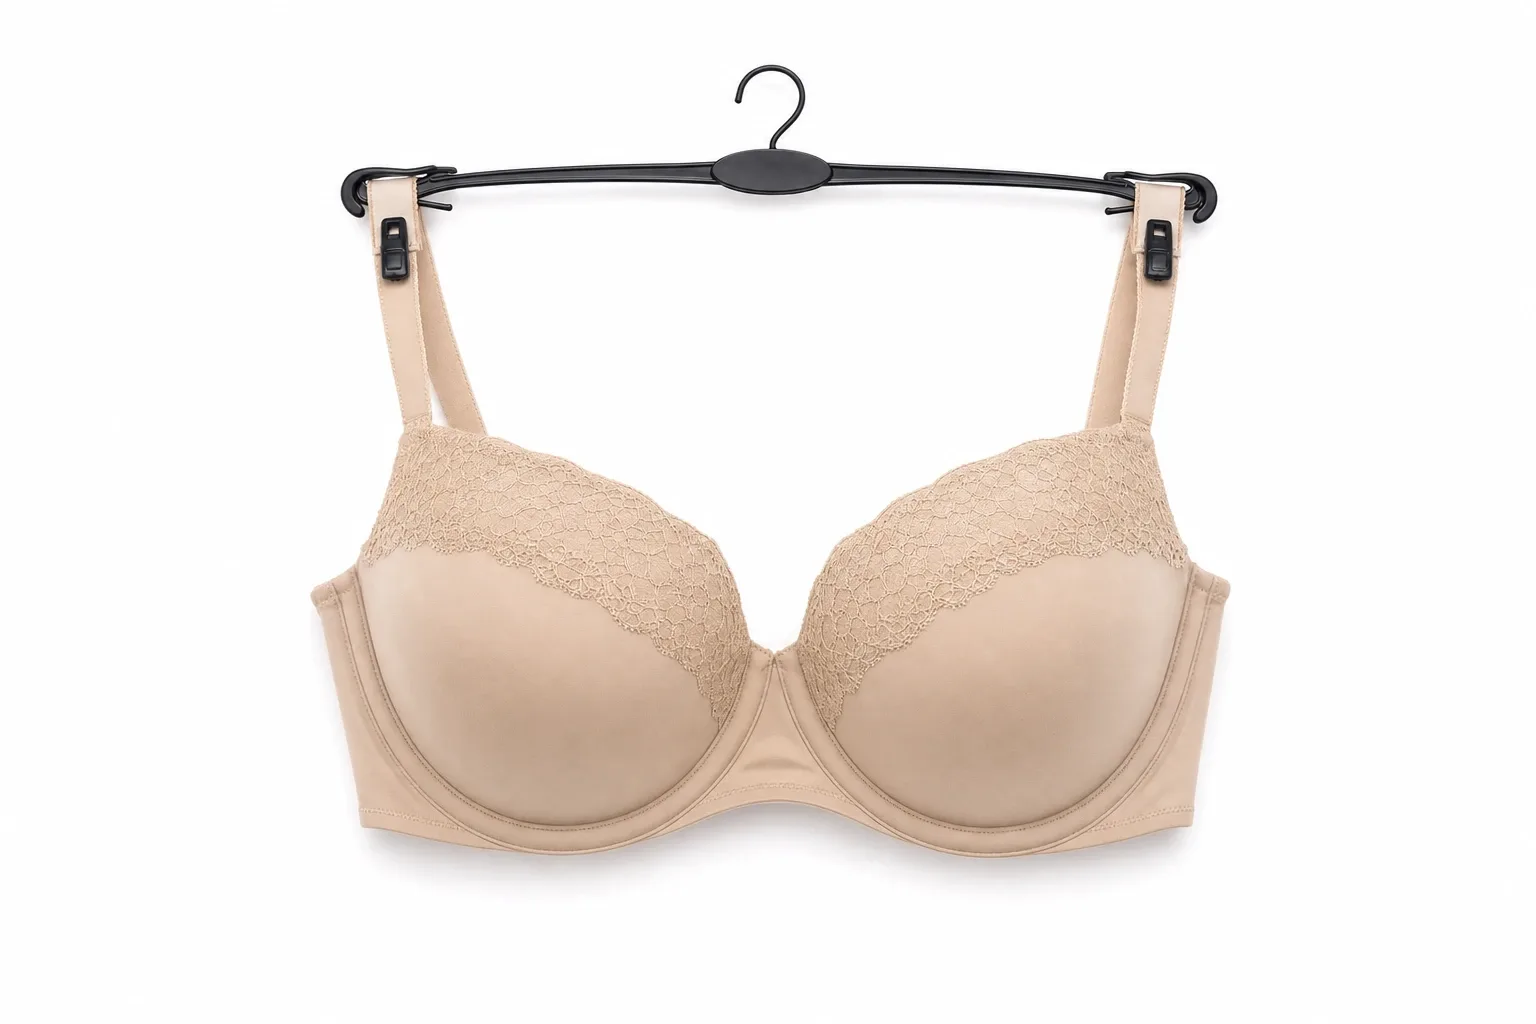
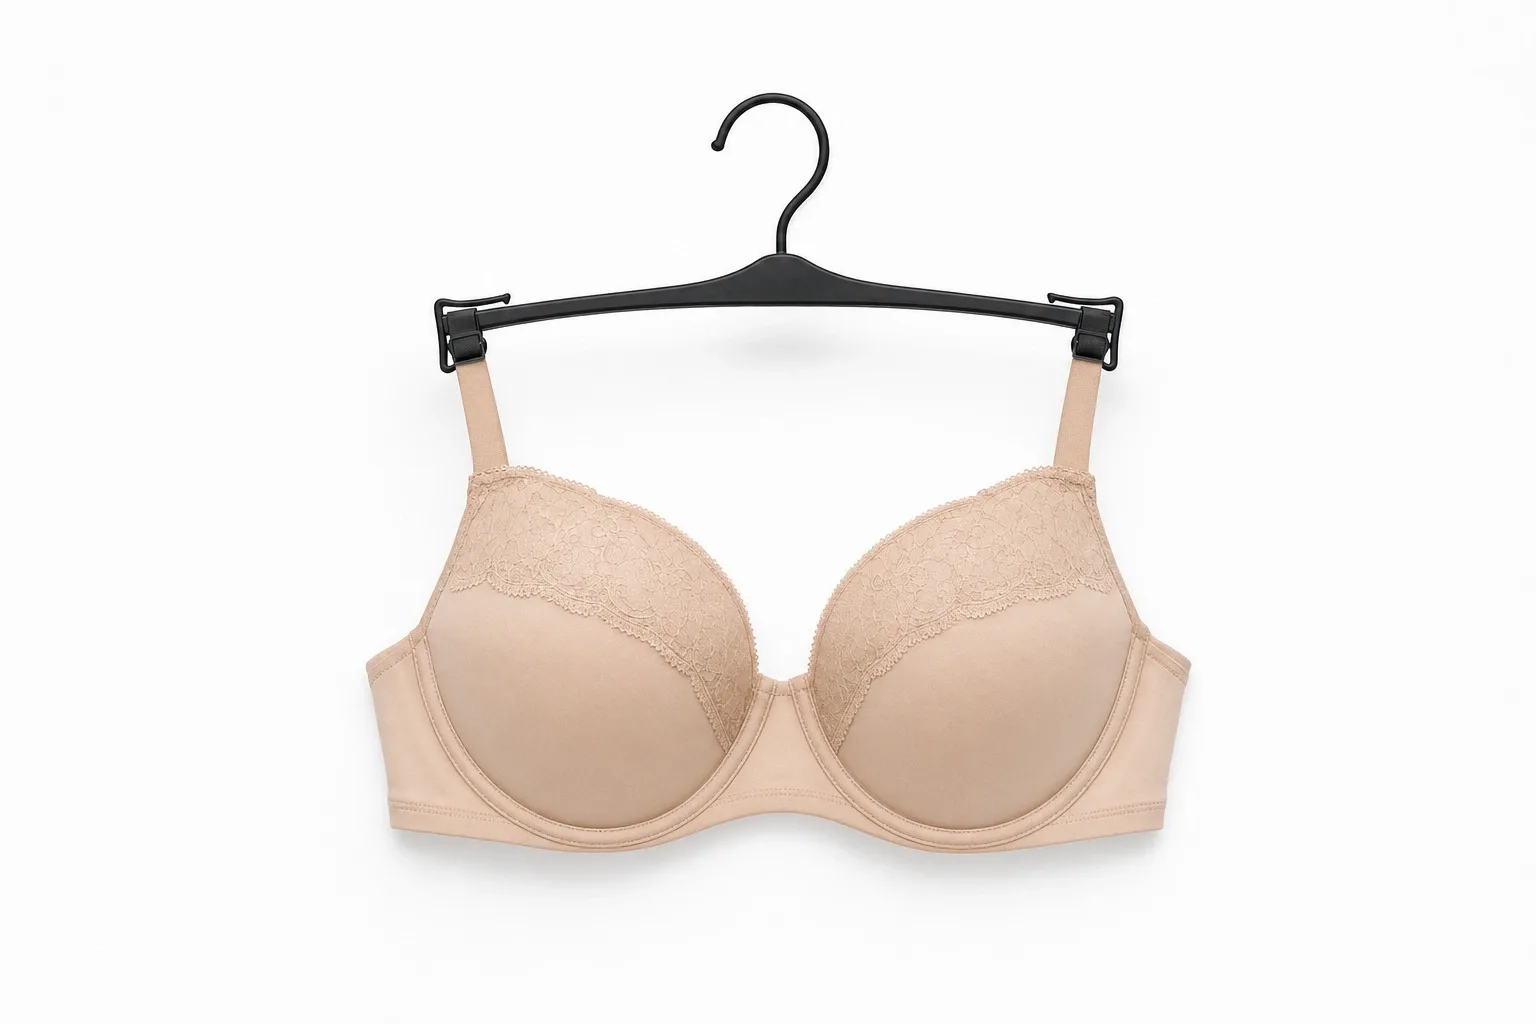
giros/lencería: el nude del cuarteto, mismo gancho plano y misma escala que sus tres hermanos
Claude-Session: https://claude.ai/code/session_019MutHCukWJumH5E3dGyya4

Changed region(s): [[0.1875, 0.0625, 0.8125, 0.8438]]

diff --git a/sitio/src/data/giros/_fotos/README.md b/sitio/src/data/giros/_fotos/README.md
@@ -109,7 +109,7 @@ de cuatro dictámenes seguidos, no de una corazonada.
 | tallas grandes | 9 de 22 | **las 22 aprobadas en ronda 2** · 4 rehechas con discos en blanco (aprobadas en ronda 7); el giro queda 38-52 + discos lisos, ya sin 14-24 | **resuelta, par confirmado** |
 | outlet | 10 de 22 | **las 22 aprobadas en ronda 2** | **resuelta, par confirmado** |
 | emprendedoras | 9 de 22 | **las 22 aprobadas en ronda 2** · el cuarteto de blusas salió parejo a la primera (altura 899-914 px en las cuatro) | **resuelta, par confirmado** (mismo cuarto de casa) |
-| lencería | 7 de 23 (2 retiradas por dignidad) | **las 23 aprobadas en ronda 2** · cero fallas de dignidad · calcetería recortada por el borde izquierdo (dos empaques desenfocados que a 5x parecían un torso) · vino y blanco del cuarteto rehechos en ronda 8b con el negro como referencia (escala dispar) · probador recompuesto (la prenda ya no se encima con el cuerpo) | **resuelta, par confirmado** |
+| lencería | 7 de 23 (2 retiradas por dignidad) | **las 23 aprobadas en ronda 2** · cero fallas de dignidad · calcetería recortada por el borde izquierdo (dos empaques desenfocados que a 5x parecían un torso) · vino, blanco y nude del cuarteto rehechos con el negro como imagen de referencia (al emparejar tres, el cuarto quedó de primo: el cuarteto se rehace COMPLETO o no se rehace) · probador recompuesto (la prenda ya no se encima con el cuerpo) | **resuelta, par confirmado** |
 
 **Lo que se retiró de producción por dignidad, y por qué.** Cuatro fotos en total:
 dos de maternidad (empaques y un cartel impresos con mujeres en ropa interior) y
